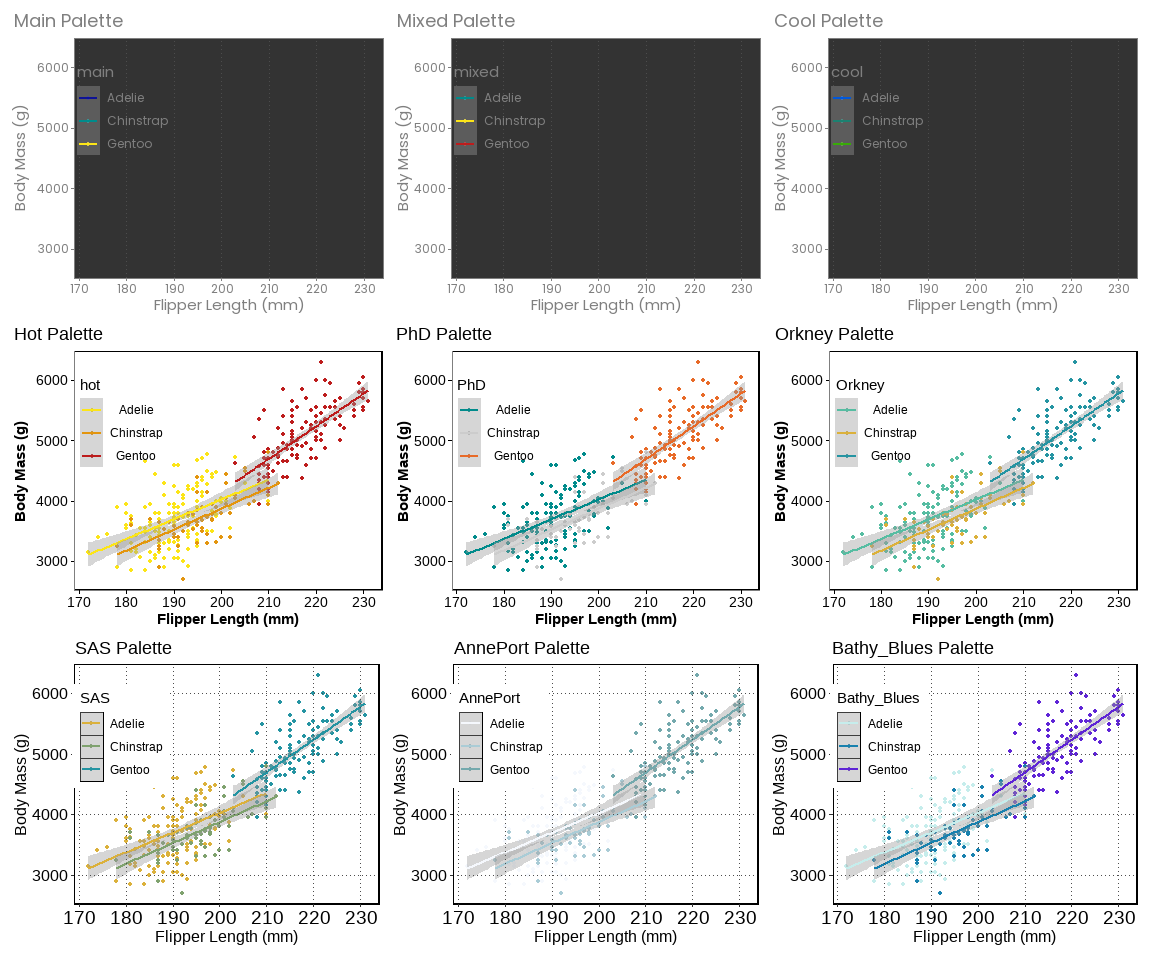
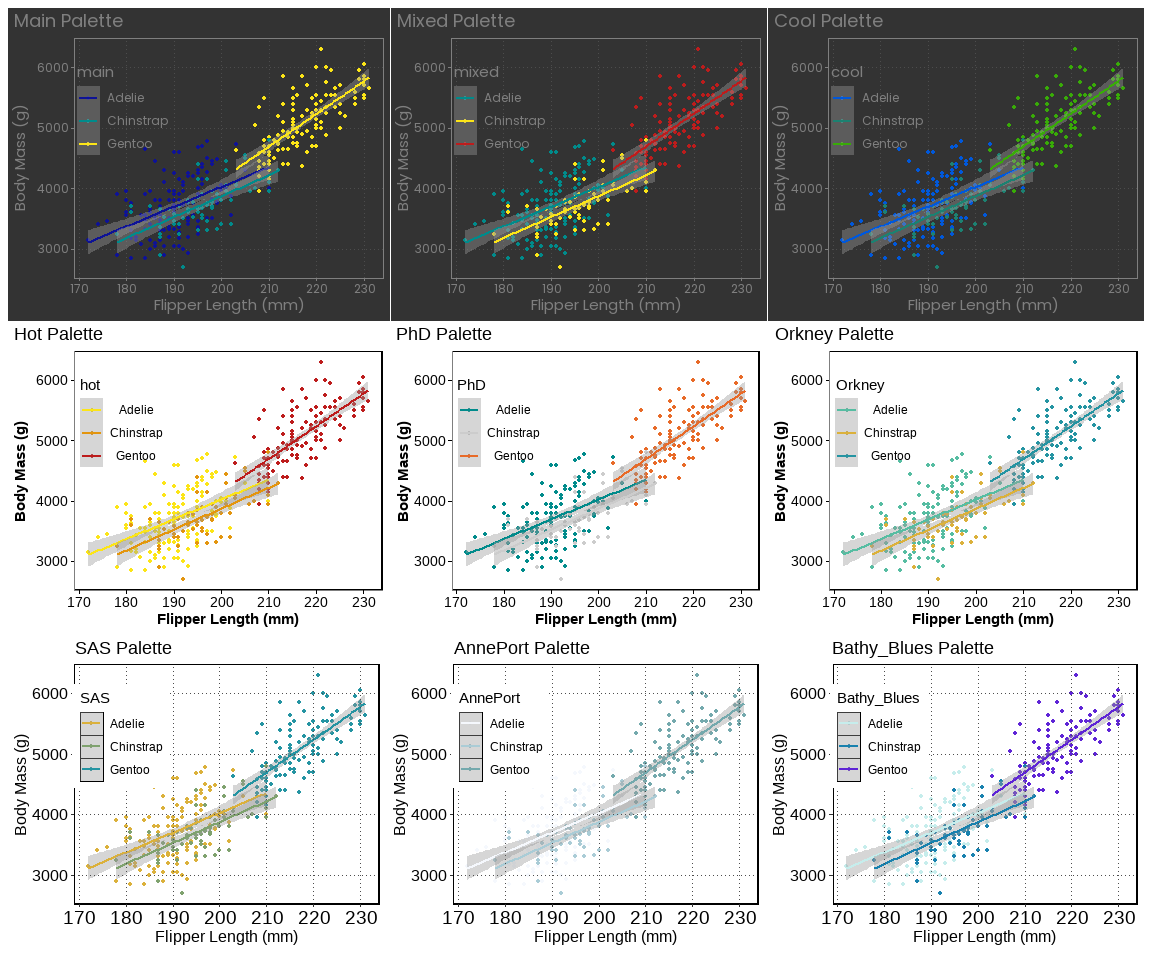
okay i am a dumb dumb and should really go home and sleep

Changed region(s): [[0.0, 0.0, 1.0, 0.3438]]

diff --git a/README.md b/README.md
@@ -4,8 +4,7 @@
 # Utilities.Package <img src="man/figures/logo.png" width="300px" height="200px" align="right" style="padding-left:10px;background-color:white;" />
 
 Primarily, Utilities.Package is a package of simple utility features for
-data manipulation. It also contains personalisable palettes and themes
-for ggplot2 plots.
+personalisable palettes and themes for ggplot2 plots.
 
 ## Installation
 